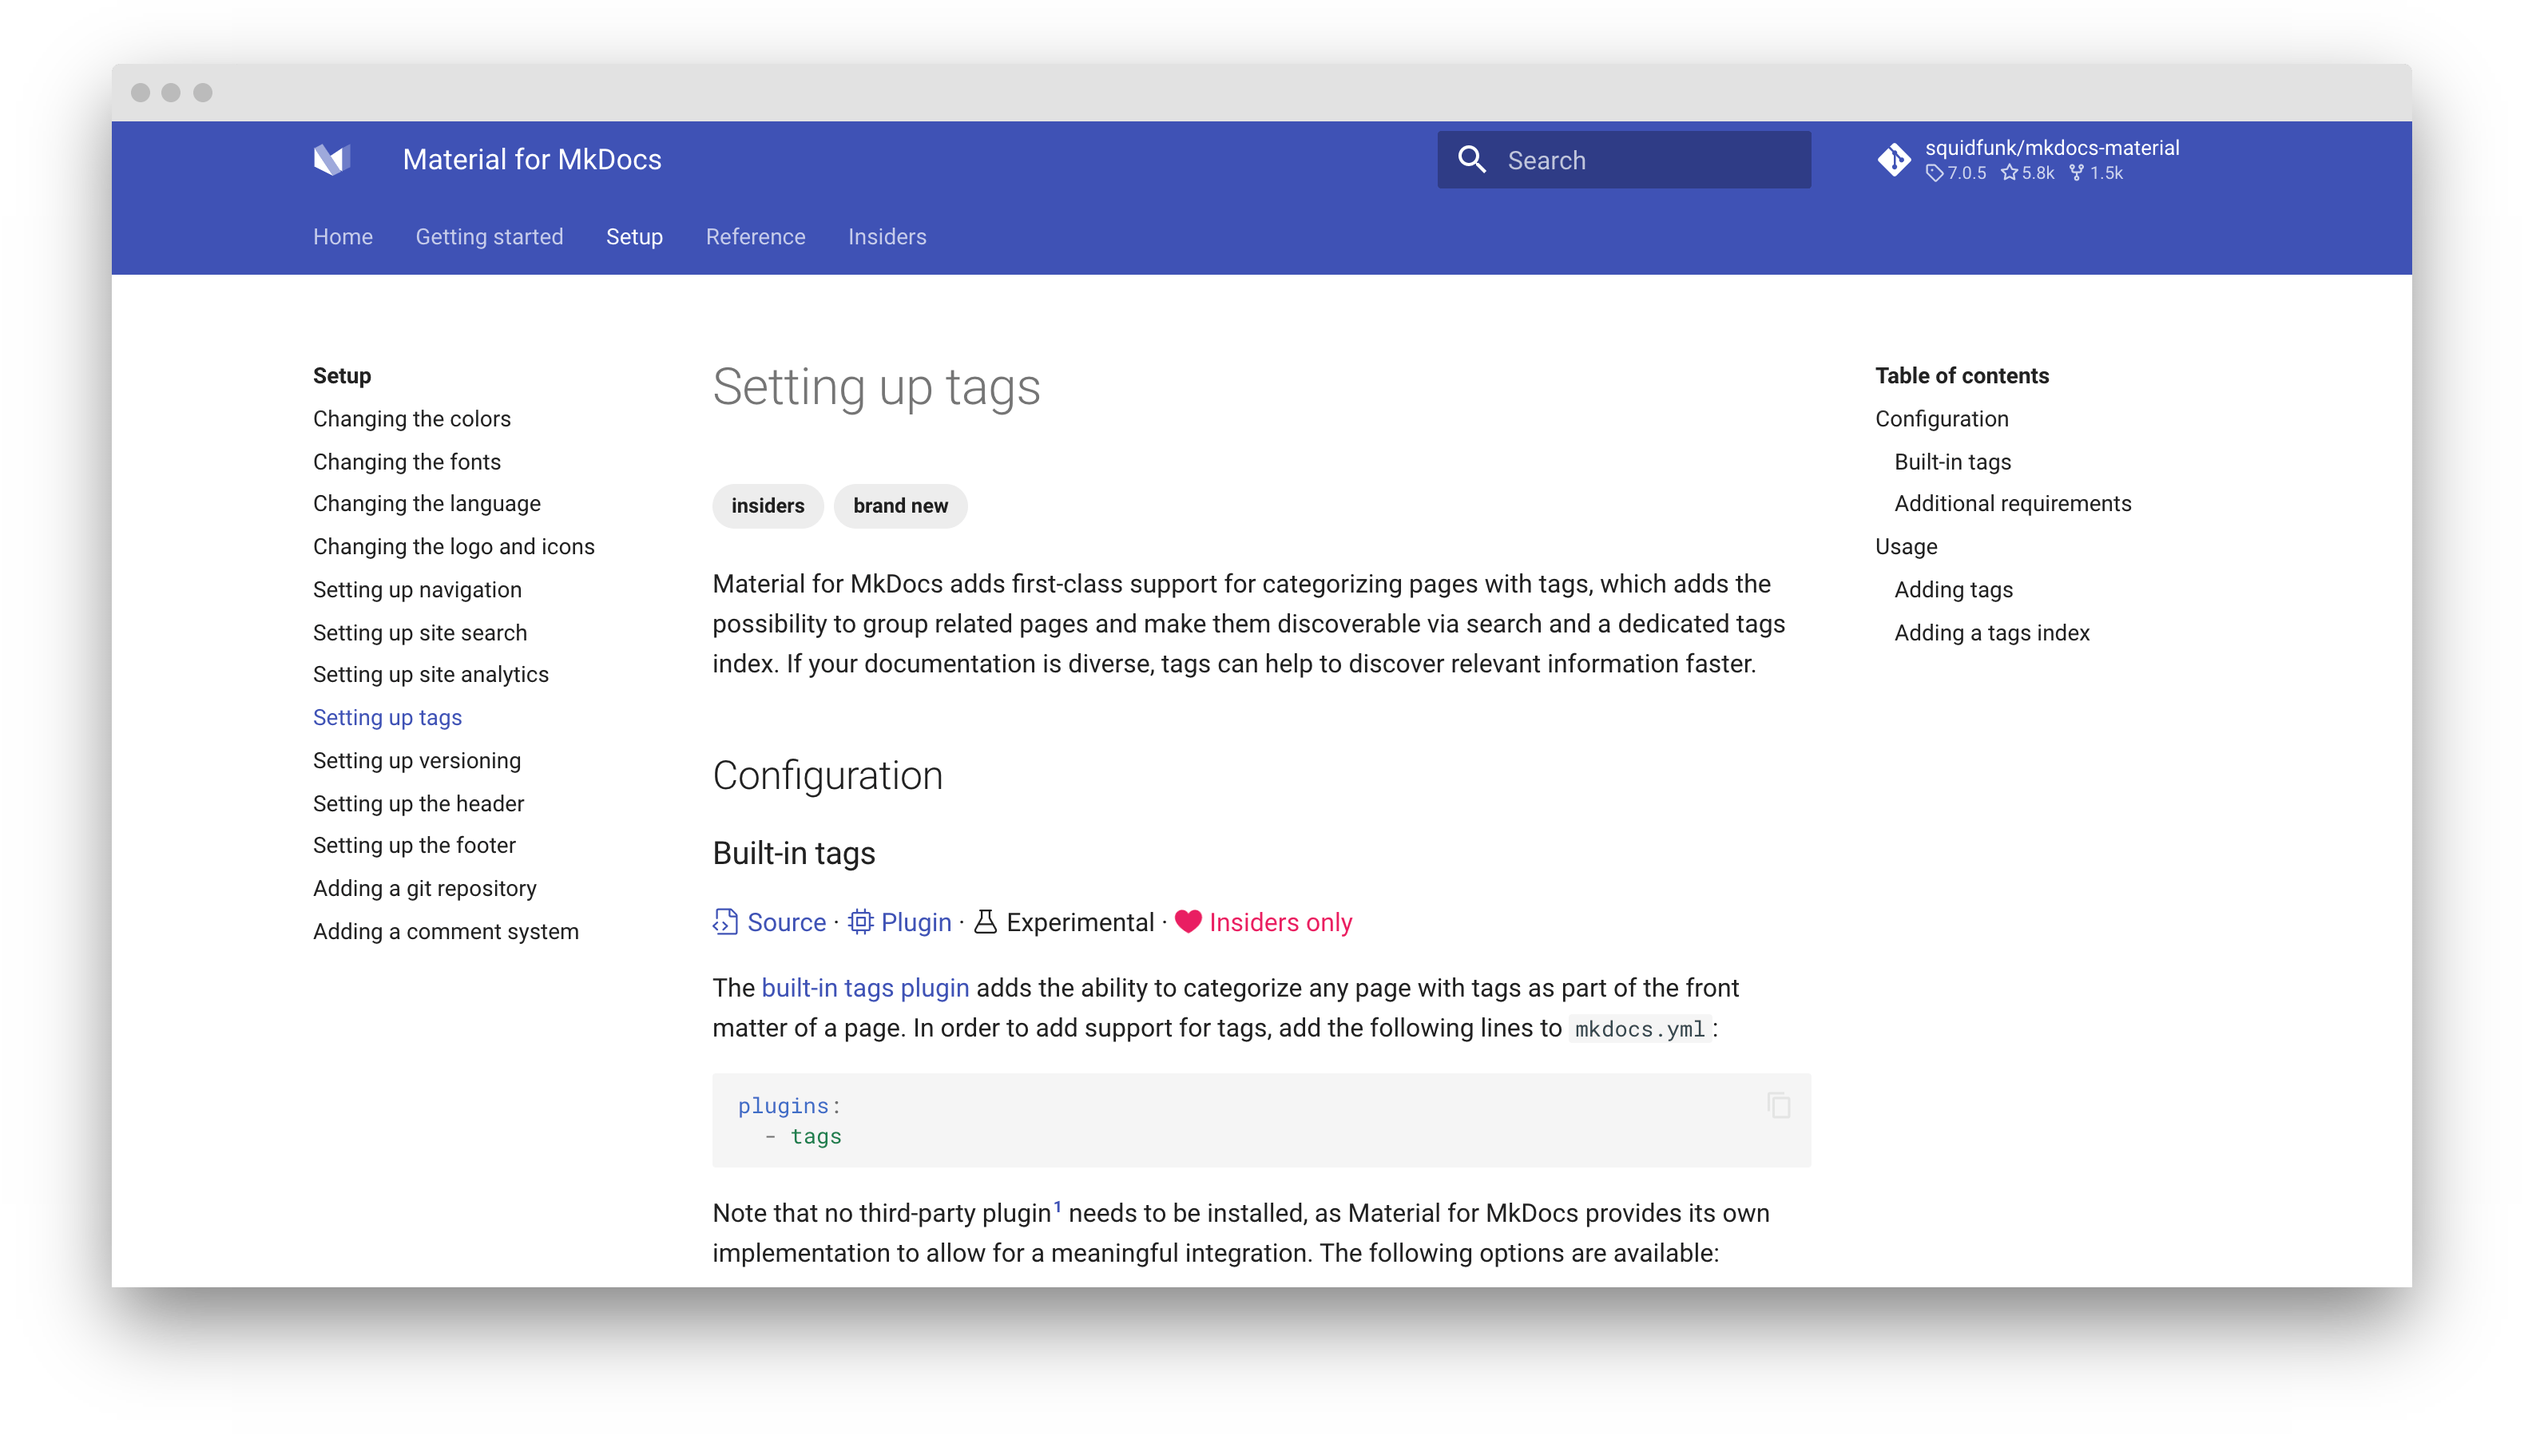
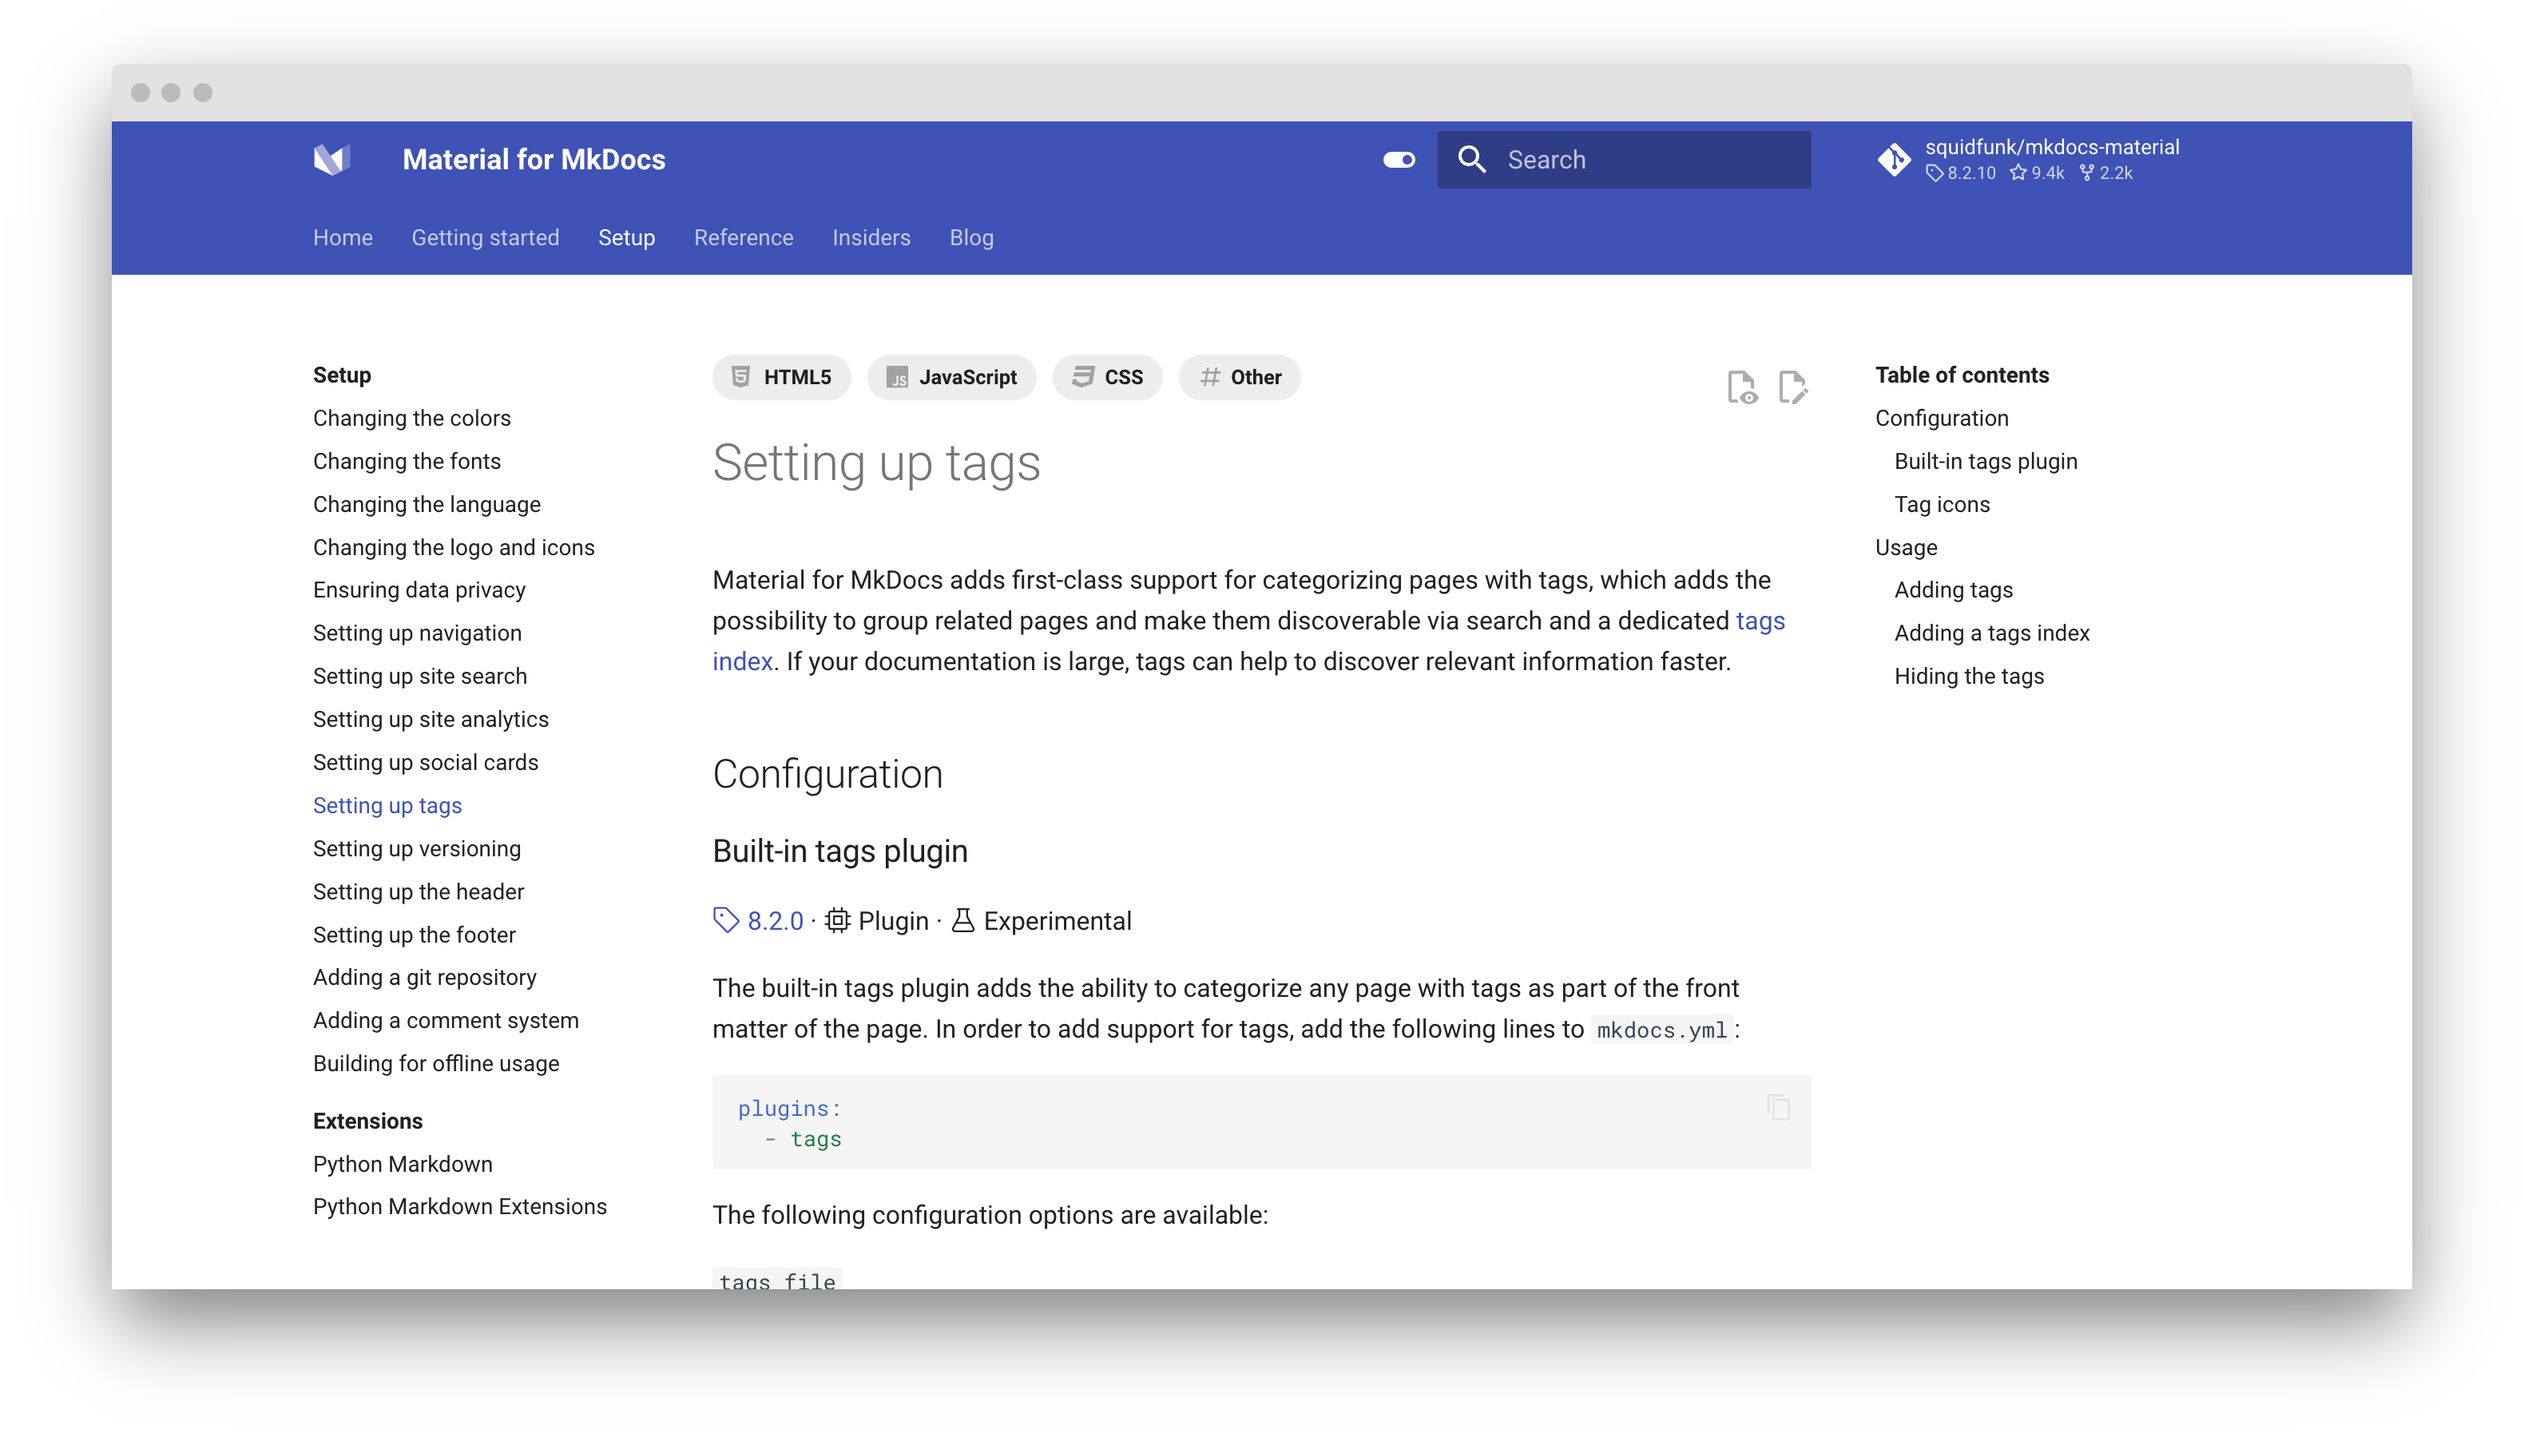
Documentation

diff --git a/docs/setup/setting-up-tags.md b/docs/setup/setting-up-tags.md
@@ -1,13 +1,20 @@
 ---
 template: overrides/main.html
+tags:
+  - HTML5
+  - JavaScript
+  - CSS
+  - Other
 ---
 
 # Setting up tags
 
 Material for MkDocs adds first-class support for categorizing pages with tags,
 which adds the possibility to group related pages and make them discoverable
-via search and a dedicated tags index. If your documentation is large, tags
+via search and a dedicated [tags index]. If your documentation is large, tags
 can help to discover relevant information faster.
+
+  [tags index]: #adding-a-tags-index
 
 ## Configuration
 
@@ -32,8 +39,9 @@ The following configuration options are available:
 
 :   :octicons-milestone-24: Default: _none_ – This option specifies which file
     should be used to render the tags index. See the section on [adding a tags 
-    index] for more information. If this option is specified, tags will
-    become clickable, pointing to the corresponding section in the tags index:
+    index][tags index] for more information. If this option is specified, tags
+    will become clickable, pointing to the corresponding section in the tags
+    index:
 
     ``` yaml
     plugins:
@@ -42,12 +50,92 @@ The following configuration options are available:
     ```
 
     The page holding the tags index can be linked anywhere in the `nav` section
-    of `mkdocs.yml`. Note, however, that this options is not required. If this
-    option is not specified, tags are still rendered and searchable,
-    but without a tags index.
+    of `mkdocs.yml`. Note, however, that this options is not required – only use
+    it if you want a tags index page.
 
   [tags support]: https://github.com/squidfunk/mkdocs-material/releases/tag/8.2.0
-  [adding a tags index]: #adding-a-tags-index
+
+### Tag icons
+
+[:octicons-heart-fill-24:{ .mdx-heart } Insiders][Insiders]{ .mdx-insiders } ·
+[:octicons-tag-24: insiders-4.13.0][Insiders] ·
+:octicons-beaker-24: Experimental
+
+Each tag can be associated with an icon, which is then rendered inside the tag.
+Before assigning icons to tags, associate each tag with a unique identifier,
+by adding the following to `mkdocs.yml`:
+
+``` yaml
+extra:
+  tags:
+    <tag>: <identifier> # (1)!
+```
+
+1.  The identifier can only include alphanumeric characters, as well as dashes
+    and underscores. For example, if you have a tag `Compatibility`, you can
+    set `compat` as an identifier:
+
+    ``` yaml
+    extra:
+      tags:
+        Compatibility: compat
+    ```
+
+    Identifiers can be reused between tags. Tags which are not explicitly
+    associated will use the default tag icon which is :material-pound:
+
+Next, each identifier can be associated with an icon, or even a [custom icon],
+by adding the following lines to `mkdocs.yml` under the `theme.icon`
+configuration setting:
+
+=== "Tag icon"
+
+    ``` yaml
+    theme:
+      icon:
+        tag:
+          <identifier>: <icon> # (1)!
+    ```
+
+    1.  Enter a few keywords to find the perfect icon using our [icon search] and
+        click on the shortcode to copy it to your clipboard:
+
+        <div class="mdx-iconsearch" data-mdx-component="iconsearch">
+          <input class="md-input md-input--stretch mdx-iconsearch__input" placeholder="Search icon" data-mdx-component="iconsearch-query" value="tag" />
+          <div class="mdx-iconsearch-result" data-mdx-component="iconsearch-result" data-mdx-mode="file">
+            <div class="mdx-iconsearch-result__meta"></div>
+            <ol class="mdx-iconsearch-result__list"></ol>
+          </div>
+        </div>
+
+=== "Tag default icon"
+
+    ``` yaml
+    theme:
+      icon:
+        tag:
+          default: <icon>
+    ```
+
+??? example "Expand to inspect example"
+
+    ``` yaml
+    theme:
+      icon:
+        tag:
+          html: fontawesome/brands/html5
+          js: fontawesome/brands/js
+          css:  fontawesome/brands/css3
+    extra:
+      tags:
+        HTML5: html
+        JavaScript: js
+        CSS: css
+    ```
+
+  [Insiders]: ../insiders/index.md
+  [custom icon]: changing-the-logo-and-icons.md#additional-icons
+  [icon search]: ../reference/icons-emojis.md#search
 
 ## Usage
 
@@ -60,8 +148,10 @@ lines at the top of a Markdown file:
 ``` sh
 ---
 tags:
-  - insiders
-  - brand new
+  - html
+  - js
+  - css
+  - other
 ---
 
 ...

diff --git a/docs/reference/admonitions.md b/docs/reference/admonitions.md
@@ -64,7 +64,7 @@ theme:
 
     === ":octicons-mark-github-16: Octicons"
 
-        ``` yaml title="Admonition with alternate icon set"
+        ``` yaml
         theme:
           icon:
             admonition:
@@ -91,7 +91,7 @@ theme:
 
     === ":fontawesome-brands-font-awesome: FontAwesome"
 
-        ``` yaml title="Admonition with alternate icon set"
+        ``` yaml
         theme:
           icon:
             admonition:
@@ -116,7 +116,7 @@ theme:
         </div>
 
   [Insiders]: ../insiders/index.md
-  [custom icon]: icons-emojis.md#additional-icons
+  [custom icon]: ../setup/changing-the-logo-and-icons.md#additional-icons
   [supported types]: #supported-types
   [icon search]: icons-emojis.md#search
   [Octicons]: ../assets/screenshots/admonition-octicons.png
